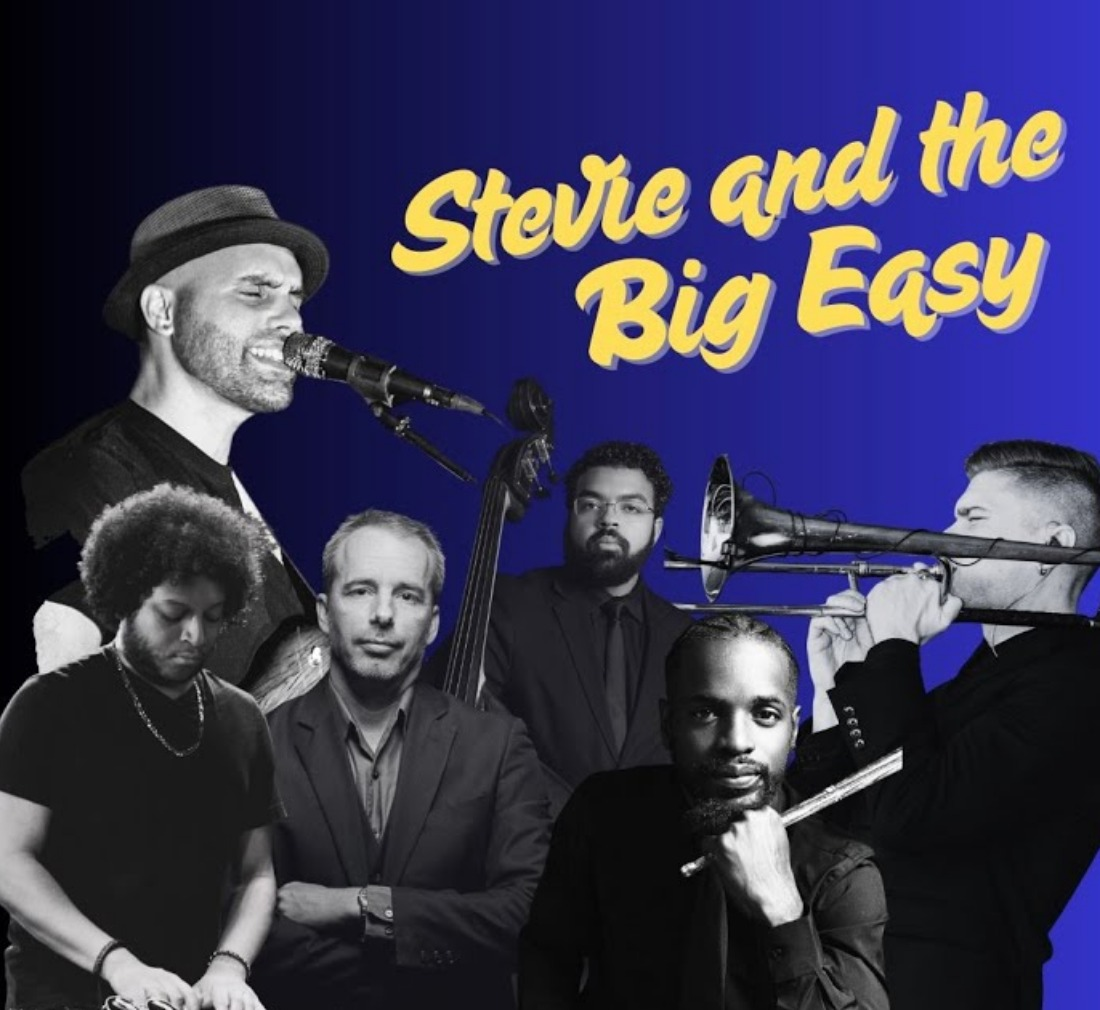
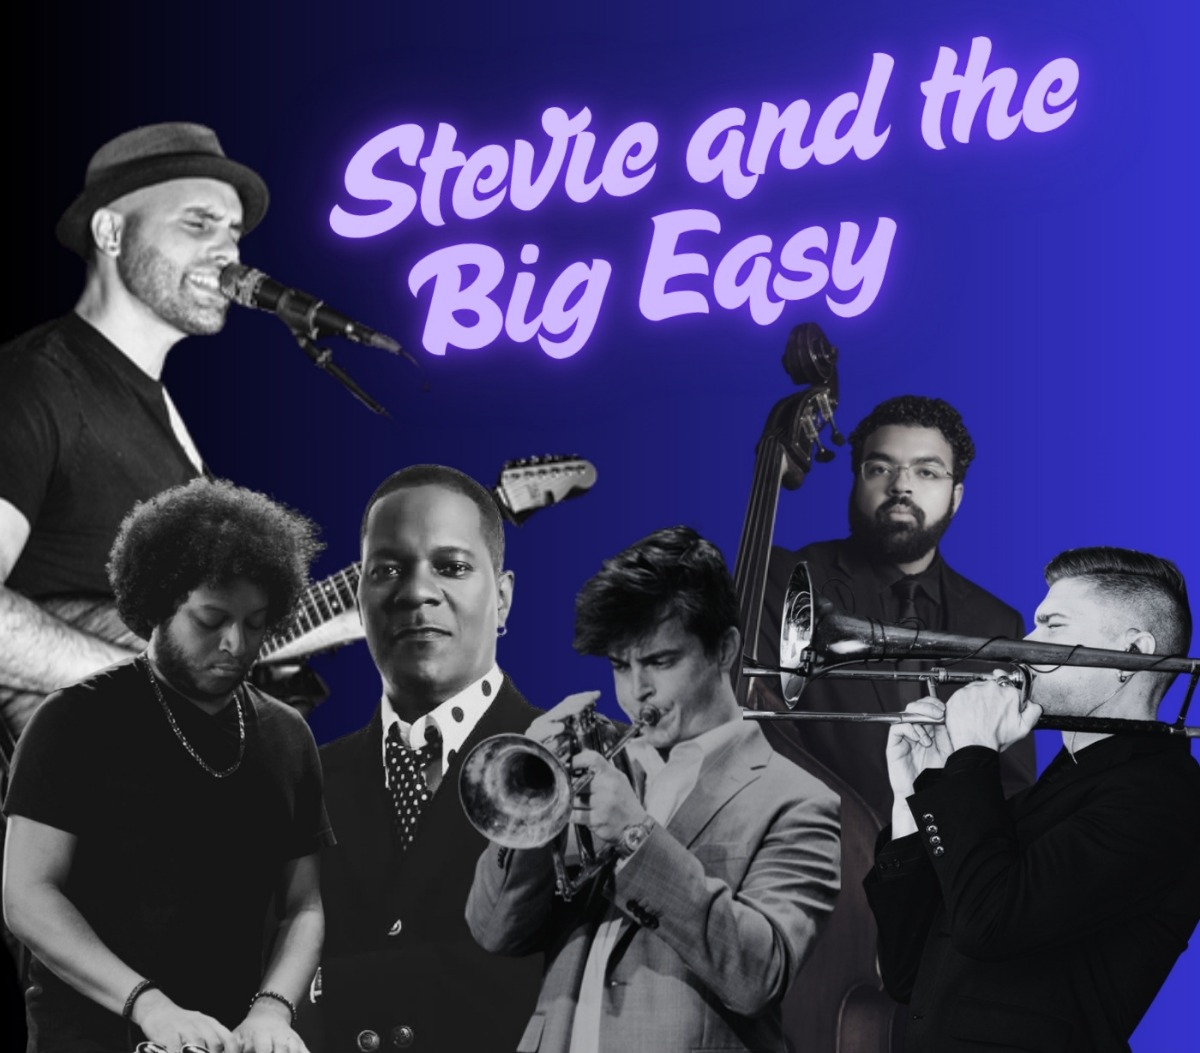
Use the May 22 flyer artwork in the hero
Swaps the hero artwork for the May 22 flyer from Canva — the seven-piece
lineup with trumpet, trombone and upright bass — cropped above the date
and venue block so the page carries no past gig. The hero frame now
matches the artwork's proportions, so nothing is cropped. Keeps the full
flyer and the earlier artwork alongside it.

Claude-Session: https://claude.ai/code/session_01XfW7SkSaMDgUnR6g5sHK7y

diff --git a/stevie-and-the-big-easy/index.html b/stevie-and-the-big-easy/index.html
@@ -118,7 +118,7 @@ p{margin:0 0 1rem;max-width:62ch}
 .hero h1 .line2{display:block;color:var(--gold)}
 .hero .lede{margin-top:1.25rem;max-width:34ch}
 .hero-art{
-  aspect-ratio:1/1;overflow:hidden;border:1px solid var(--rule);
+  aspect-ratio:8/7;overflow:hidden;border:1px solid var(--rule);
   box-shadow:var(--shadow);background:var(--surface);margin:0;
 }
 .hero-art img{width:100%;height:100%;object-fit:cover}
@@ -260,7 +260,7 @@ footer a{color:var(--muted)}
 
 @media (max-width:44rem){
   .hero-grid,.bio{grid-template-columns:1fr}
-  .hero-art{order:-1;aspect-ratio:16/11}
+  .hero-art{order:-1;aspect-ratio:8/7}
   .hero-watermark{display:none}
   .photos a.wide{grid-column:span 1}
   .photos a.wide img{aspect-ratio:4/5}
@@ -311,7 +311,7 @@ footer a{color:var(--muted)}
         </div>
       </div>
       <figure class="hero-art">
-        <img src="img/promo-art.jpg" alt="Stevie and the Big Easy promo artwork: the band, with trombone and upright bass." width="1100" height="1010">
+        <img src="img/promo-art.jpg" alt="Stevie and the Big Easy promo artwork: the seven-piece band, with trumpet, trombone and upright bass." width="1200" height="1053">
       </figure>
     </div>
   </section>

diff --git a/stevie-and-the-big-easy/README.md b/stevie-and-the-big-easy/README.md
@@ -22,7 +22,9 @@ display, Barlow Condensed for labels, Karla for body.
 
 | Section | Where it came from |
 |---|---|
-| Promo artwork, video stills | the band's videos on youtube.com/@steveheavenstone |
+| Promo artwork (`promo-art.jpg`) | the May 22 flyer in Canva, cropped above the date and venue block; full flyer kept as `flyer-may22-full.jpg` |
+| Earlier promo artwork | `promo-art-2025-full.jpg`, from the band promo video |
+| Video stills | the band's videos on youtube.com/@steveheavenstone |
 | Bio | the band's own billing (Westside Blues & Jazz listing) and promo art |
 | Set list | the chart folders in the "Stevie and the Big Easy" Drive folder |
 | Photos | the press photos on steveheavenstone.com/media |
